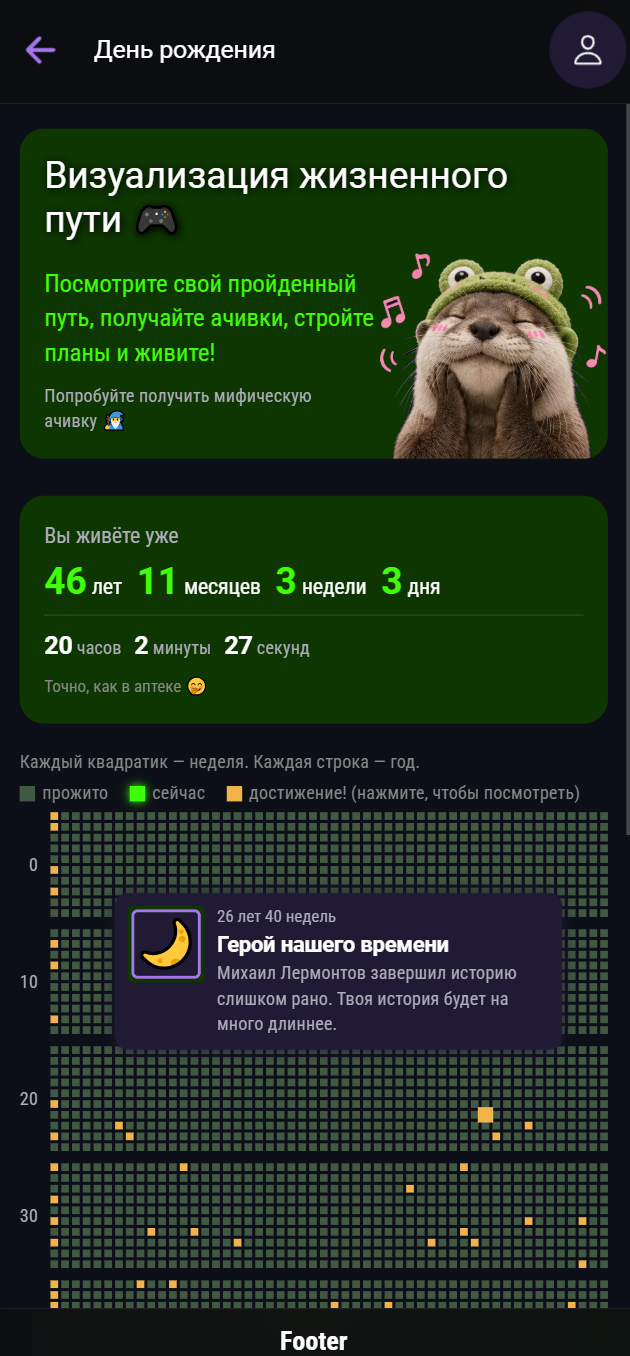
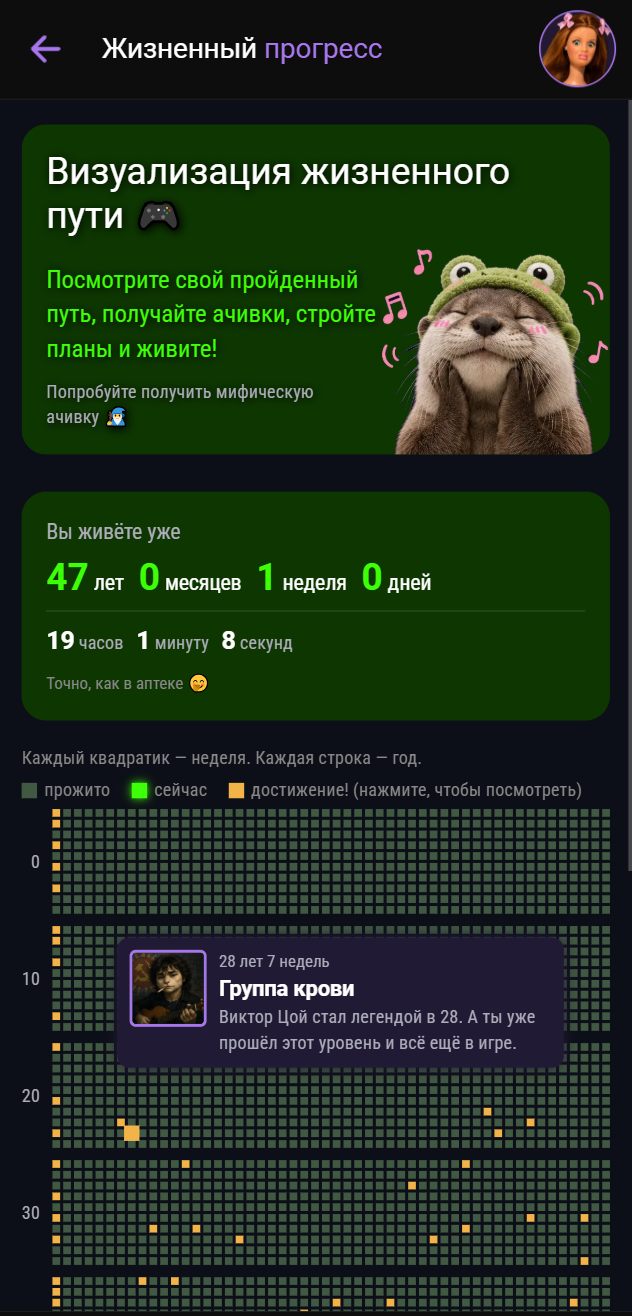
Uploaded new screenshots and README.md updated

diff --git a/src/views/AchievementsPage/achievementsPage.module.scss b/src/views/AchievementsPage/achievementsPage.module.scss
@@ -143,7 +143,7 @@
     width: 100%;
     height: 100%;
     opacity: 0;
-    
+
     &::-webkit-calendar-picker-indicator {
       position: absolute;
       inset: 0;

diff --git a/README.md b/README.md
@@ -3,7 +3,7 @@
 
   # День рождения 🎂
 
-  Мобильное приложение о датах вашей жизни: от планирования зачатия до визуализации прожитых недель и достижений.
+  Мобильное приложение о датах вашей жизни: считает дни до дня рождения, показывает прожитые недели сеткой, выдаёт достижения за возраст и обогнанных кумиров и ведёт стрики полезных привычек.
 
 </div>
 
@@ -14,35 +14,83 @@
 <table>
   <tr>
     <td width="50%" align="center">
-      <img src="design/screen-home.png" alt="Главная" width="100%" /><br />
+      <img src="design/screen-main-page.png" alt="Главная" width="100%" /><br />
       <b>Главная</b><br />
-      Счётчик до дня рождения, важные даты, последнее достижение
+      Счётчик до дня рождения, важный человек, шпаргалка «кто это» и последнее достижение
     </td>
     <td width="50%" align="center">
       <img src="design/screen-life-progress.png" alt="Жизненный прогресс" width="100%" /><br />
       <b>Жизненный прогресс</b><br />
-      Сетка недель жизни и ачивки прямо на ней
+      Сетка недель жизни, живой счётчик и ачивки прямо на клетках
     </td>
   </tr>
   <tr>
     <td width="50%" align="center">
-      <img src="design/screen-female.png" alt="Планирование для девушек" width="100%" /><br />
-      <b>Планирование для девушек</b><br />
-      День овуляции и фертильное окно
+      <img src="design/screen-achievement.png" alt="Достижения" width="100%" /><br />
+      <b>Достижения</b><br />
+      Табы групп, счётчик стрика и прогресс до следующей ачивки
     </td>
     <td width="50%" align="center">
-      <img src="design/screen-male.png" alt="Планирование для мужиков" width="100%" /><br />
+      <img src="design/screen-achievement-detaled.png" alt="Карточка достижения" width="100%" /><br />
+      <b>Карточка достижения</b><br />
+      Рамка по редкости и кнопка «поделиться»
+    </td>
+  </tr>
+  <tr>
+    <td width="50%" align="center">
+      <img src="design/screen-birthday-wish.png" alt="Поздравление" width="100%" /><br />
+      <b>Поздравление</b><br />
+      Открывается само в день рождения — с конфетти и хлопушками
+    </td>
+    <td width="50%" align="center">
+      <img src="design/screen-choose-avatar.png" alt="Выбор аватарки" width="100%" /><br />
+      <b>Выбор аватарки</b><br />
+      Персонаж под настроение или кубик «решите за меня»
+    </td>
+  </tr>
+  <tr>
+    <td width="50%" align="center">
+      <img src="design/screen-femaleCalendar.png" alt="Планирование для девушек" width="100%" /><br />
+      <b>Планирование для девушек</b><br />
+      Дата последних месячных и длина цикла
+    </td>
+    <td width="50%" align="center">
+      <img src="design/screen-female-fertility-window.png" alt="Фертильное окно" width="100%" /><br />
+      <b>Фертильное окно</b><br />
+      Дни с градацией вероятности и предполагаемая дата рождения
+    </td>
+  </tr>
+  <tr>
+    <td width="50%" align="center">
+      <img src="design/screen-maleCalendar.png" alt="Планирование для мужиков" width="100%" /><br />
       <b>Планирование для мужиков</b><br />
       Оптимальные дни с учётом алкоголя и воздержания
     </td>
+    <td width="50%" align="center">
+      <img src="design/screen-childBirthday.png" alt="Планирование рождения" width="100%" /><br />
+      <b>Планирование рождения</b><br />
+      Дата зачатия под желаемый день рождения ребёнка
+    </td>
   </tr>
   <tr>
     <td width="50%" align="center">
-      <img src="design/screen-child-birthday.png" alt="Планируете ребёнка?" width="100%" /><br />
-      <b>Планируете ребёнка?</b><br />
-      Дата зачатия под желаемый день рождения
+      <img src="design/screen-dayConception.png" alt="Дата зачатия" width="100%" /><br />
+      <b>Дата зачатия</b><br />
+      Обратный расчёт по дате рождения и что было в тот день
     </td>
     <td width="50%"></td>
+  </tr>
+  <tr>
+    <td width="50%" align="center">
+      <img src="design/screen-donations-thanks.png" alt="Ваша помощь" width="100%" /><br />
+      <b>Ваша помощь</b><br />
+      Список тех, благодаря кому проект живёт
+    </td>
+    <td width="50%" align="center">
+      <img src="design/screen-donations-support.png" alt="Поддержать проект" width="100%" /><br />
+      <b>Поддержать проект</b><br />
+      Разовый перевод или ежемесячный, с именем в списке благодарностей
+    </td>
   </tr>
 </table>
 
@@ -54,6 +102,8 @@
 - Счётчик дней до вашего дня рождения
 - Напоминание о дне рождения близкого человека — с отдельным предупреждением за несколько дней
 - Шпаргалка «кто это»: тёща, начальник и другие, чьё имя лучше не забывать
+- Поздравление с конфетти: в день рождения открывается само, один раз, и им можно поделиться
+- Аватарка-персонаж под настроение — с кнопкой случайного выбора
 
 ### 🎮 Жизненный прогресс
 - Каждая неделя жизни — квадратик, каждая строка — год, всё до расчётного предела
@@ -62,17 +112,22 @@
 - Можно поделиться своим прогрессом картинкой
 
 ### 🏆 Достижения
-- Категории ачивок в JSON: возраст, знаменитости, а также заготовки под привычки (диета, борода), игры и технологии
-- Пять уровней редкости: обычное, редкое, эпичное, легендарное, мифическое
-- Виджет последнего полученного достижения — доступен с любой страницы
+- Пять групп в табах: возраст, знаменитости, борода, диета, спорт
+- Стрики привычек идут параллельно — у каждого свой запуск, сброс и ручной ввод даты начала, если привычка появилась раньше приложения
+- Прогресс-бар до следующей ачивки и счётчик пройденных дней внутри группы
+- Пять уровней редкости со своей рамкой и иконкой: обычное, редкое, эпичное, легендарное, мифическое
+- Карточка достижения открывается модалкой, её можно отправить картинкой
+- Виджет последнего полученного достижения — доступен с главной и со страницы ачивок
+- В `jsons/` лежат заготовки под будущие группы: игры, технологии, особые события и дни рождения — они пока не подключены к расчёту
 
 ### 👶 Планирование зачатия и рождения
-- **День зачатия** — по дате рождения покажет примерную дату зачатия и что происходило в тот день
-- **Планируете ребёнка?** — выберите желаемый день рождения и получите расчётную дату зачатия
+- **Дата зачатия** — по дате рождения покажет примерную дату зачатия и что происходило в тот день
+- **Планирование рождения** — выберите желаемый день рождения и получите расчётную дату зачатия
 - Праздники, именины, знаки зодиака и памятные даты с учётом диапазона сроков беременности
 
 ### ♀ Планирование для девушек
 - Расчёт дня овуляции по дате последних месячных и длине цикла
+- Длина цикла запоминается — выбрать её нужно один раз
 - Фертильное окно с градацией вероятности зачатия
 - Статьи о влиянии алкоголя, курения и других факторов на фертильность
 
@@ -80,6 +135,12 @@
 - Оптимальные дни для зачатия с учётом воздержания от алкоголя и частоты эякуляций
 - Алкоголь можно исключить из расчёта одним тапом
 - Статьи о том, что влияет на качество спермы
+
+### 💜 Поддержка проекта
+- Страница благодарностей со списком тех, кто помог проекту
+- Перевод разовый или ежемесячный, сумму выбирают на стороне платёжного сервиса
+- Имя из доната попадает в список благодарностей с очередным обновлением
+- Ссылка на донат открывается во внешнем браузере
 
 ---
 
@@ -96,6 +157,7 @@
 | Состояние     | Реактивный стор на `reactive` из Vue     |
 | Хранилище     | Capacitor Preferences                    |
 | Шаринг        | Capacitor Share + Filesystem, html-to-image |
+| Внешние ссылки | Capacitor Browser                       |
 | Тесты         | Vitest (unit) + Cypress (e2e)            |
 
 ---
@@ -141,16 +203,18 @@ npm run build
 
 ```
 src/
-├── api/              # Работа с данными: праздники, именины, зодиак, ачивки
+├── api/              # Работа с данными: праздники, именины, зодиак, ачивки, стрики
 ├── assets/           # Шрифты, глобальные стили, изображения
 ├── components/
-│   ├── Achievement/  # Карточки, тултип и изображение достижения
+│   ├── Achievement/  # Карточки, тултип, плашка редкости и изображение достижения
 │   ├── AppHeader/
 │   ├── AppFooter/
-│   ├── Ui/           # Базовые элементы (Input, DayCard)
+│   ├── Avatar/       # Аватарка в шапке и выбор персонажа
+│   ├── Modals/       # Поздравление с днём рождения и карточка достижения
+│   ├── Ui/           # Базовые элементы (Input, DayCard, ProgressBar)
 │   └── Widgets/      # Блоки страниц: PageTitle, ArtButton, LifeTime, TipInfo...
-├── composables/      # Утилиты: даты, склонения, картинки ачивок, шаринг
-├── jsons/            # Датасеты: ачивки, праздники, именины, зодиак, знаменитости
+├── composables/      # Утилиты: даты, склонения, картинки ачивок, аватарки, шаринг
+├── jsons/            # Датасеты: ачивки, поздравления, праздники, именины, зодиак, знаменитости
 ├── router/           # Маршруты приложения
 ├── store/            # Глобальный стор и реактивная текущая дата
 ├── views/            # Страницы
@@ -158,6 +222,7 @@ src/
 │   ├── AchievementsPage/
 │   ├── ChildBirthday/
 │   ├── DayConception/
+│   ├── DonationsPage/
 │   ├── FemaleCalendar/
 │   ├── LifeProgress/
 │   ├── MaleCalendar/
@@ -171,8 +236,9 @@ src/
 ## ⚙ Данные и настройки
 
 - **`configApp.ts`** — единая точка настроек: сроки беременности, периоды воздержания, параметры овуляции, продолжительность жизни в неделях, цвета разделов и редкостей достижений.
-- **`jsons/achievements_*.json`** — достижения по категориям. Weeks-based (`age`, `famous`) привязаны к неделе жизни, остальные — к дням привычки или дате.
-- **`jsons/`** — офлайн-датасеты праздников, именин, знаков зодиака и знаменитостей: приложение работает без интернета.
+- **`jsons/achievements_*.json`** — достижения по группам. `age` и `famous` привязаны к неделе жизни через поле `weeks`, стрики (`beard`, `diet`, `sport`) — к числу дней привычки через `days`. Группа определяется префиксом `id`: `beard_7` относится к бороде.
+- **`api/getAchievementDate.ts`** — единственное место, где стрик привязан к полю стора. Словарь по типу `TStreakName` не даст добавить новый стрик и забыть про его дату: компилятор потребует запись.
+- **`jsons/`** — офлайн-датасеты праздников, именин, знаков зодиака, знаменитостей и поздравлений: приложение работает без интернета.
 
 ---
 
